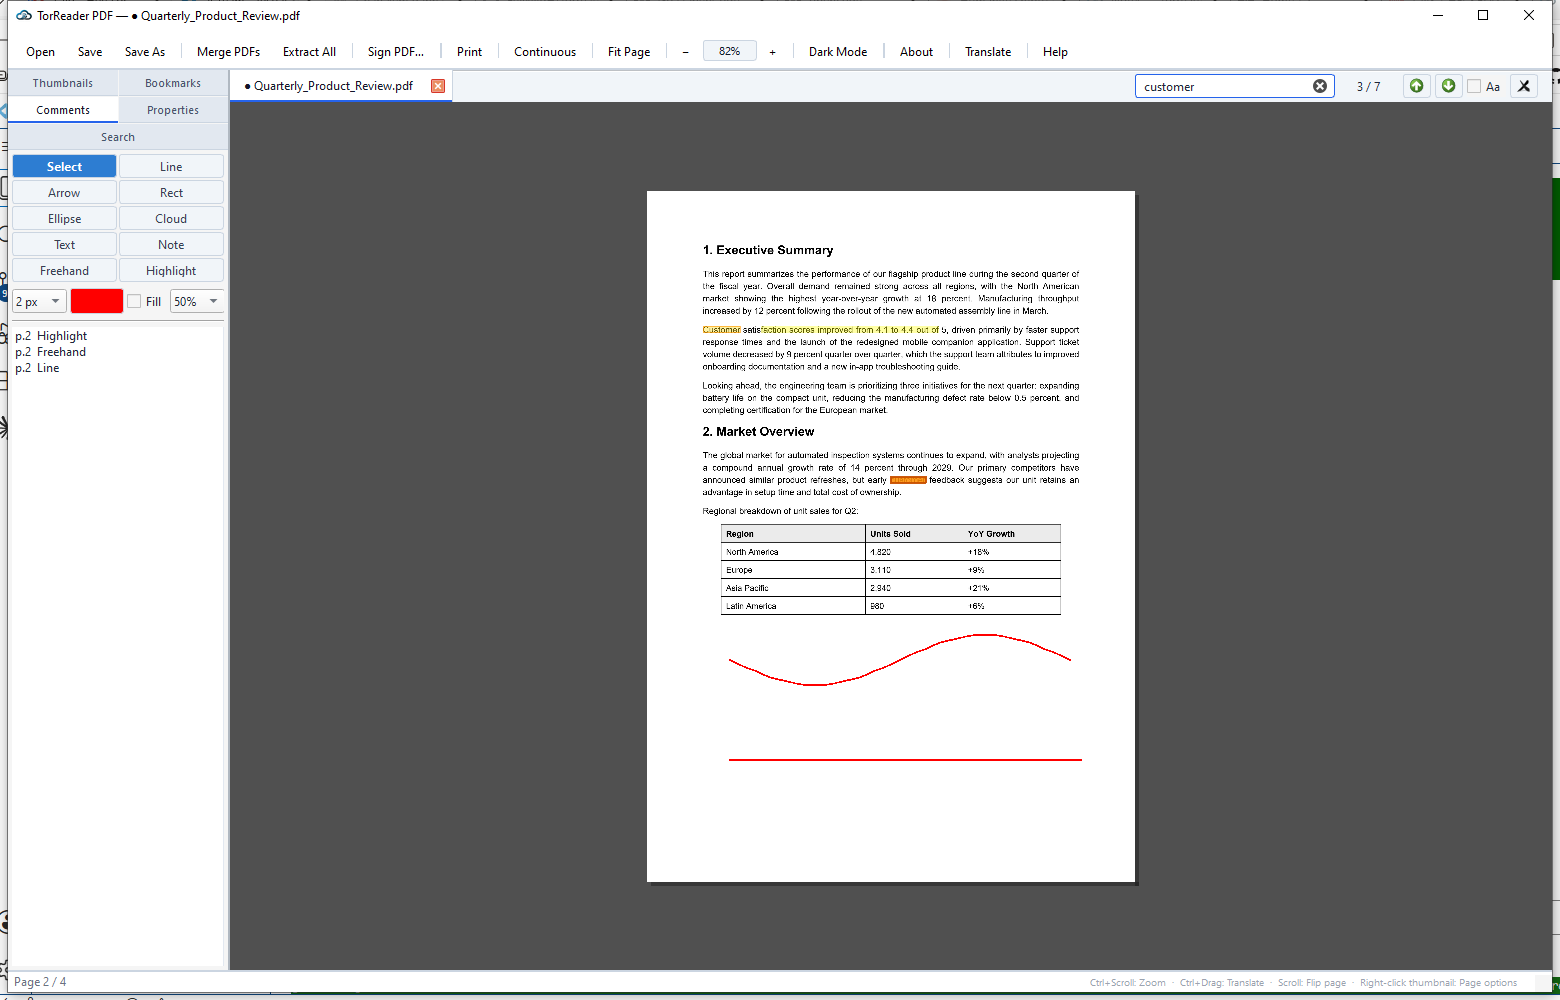
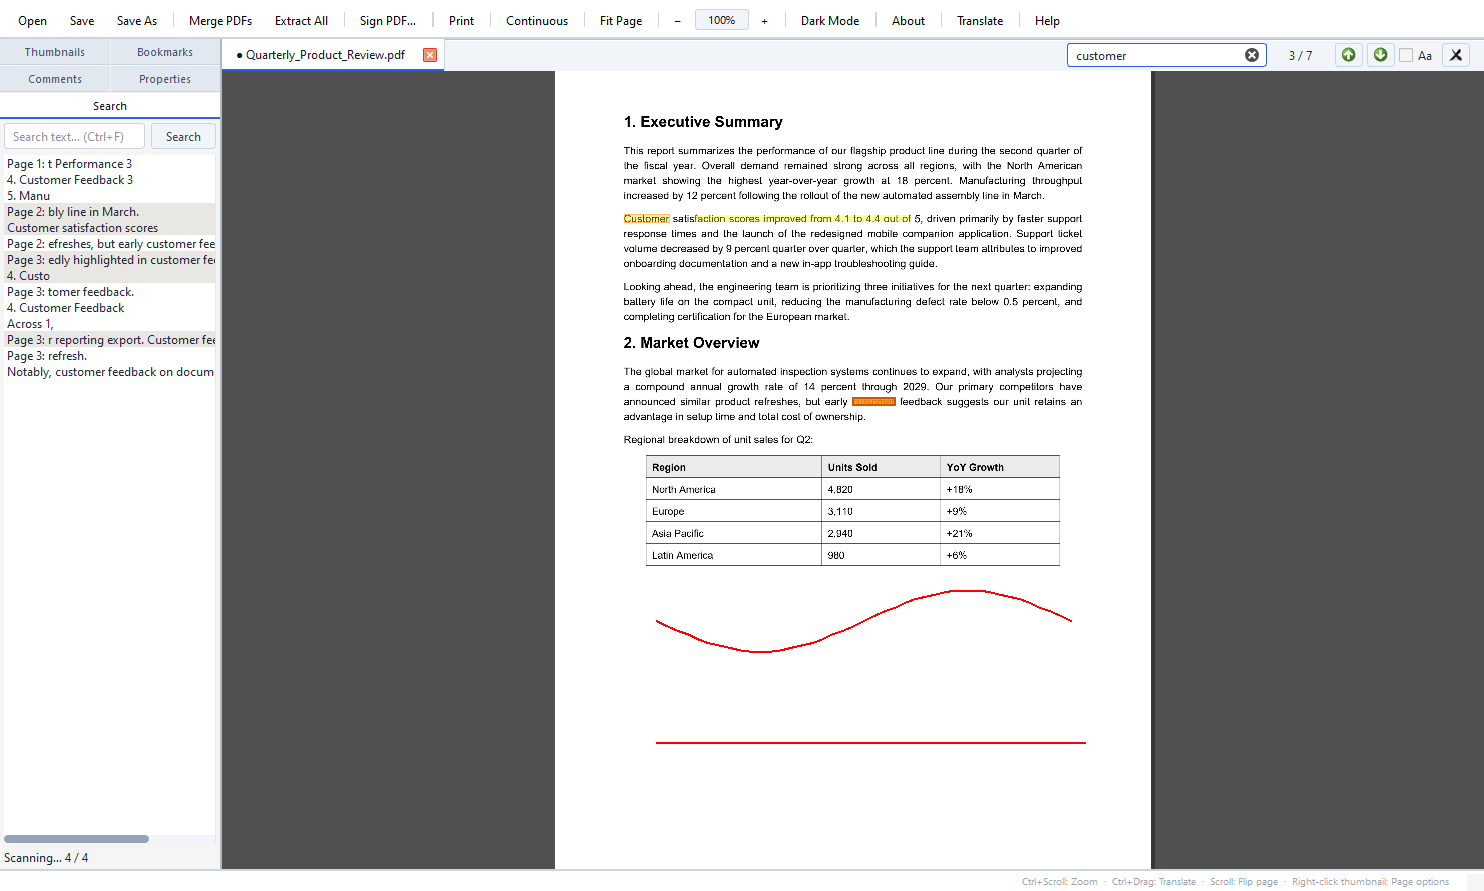
docs: add 2.2.4 feature showcase to the README
Screenshots are recaptured cleanly: they are grabbed from the window's client
area rather than its DWM frame, so no shadow border or background window bleeds
into the edges, and the window is kept away from the desktop corner so no
desktop overlay appears either.

The README now opens with a "New in 2.2.4" showcase covering sharp zoom in
Continuous scroll, the Freehand and Highlight tools, Shift-constrained lines and
text search.

Changed region(s): [[0.0, 0.0, 1.0, 1.0], [0.496, 0.6667, 0.527, 0.697]]

diff --git a/README.md b/README.md
@@ -54,6 +54,19 @@ See all versions on the **[Releases page](https://github.com/FelixNgH/TorreaderP
 
 ![TorReader PDF demo](docs/screenshots/demo.gif)
 
+### New in 2.2.4
+
+![What's new in TorReader PDF 2.2.4](docs/screenshots/whats_new_2.2.4.png)
+
+- **Sharp zoom in Continuous scroll** — the visible area is re-rendered at true
+  resolution, so zoomed-in text stays crisp in scroll mode too, not just single-page.
+- **Freehand** and **Highlight** markup tools; Highlight snaps to the real text.
+- **Hold Shift while drawing Line/Arrow** to snap to vertical, horizontal or 45°.
+- **Find text** — `Ctrl+F` floating bar with a match counter, plus a Search tab in
+  the sidebar listing every hit with context.
+- Markup is now painted as an overlay instead of going through the page raster, so
+  adding, deleting or moving it is instant even on heavy CAD drawings.
+
 <details>
 <summary>More screenshots (viewer, dark mode, markup, digital signature, merge)</summary>
 <br>
